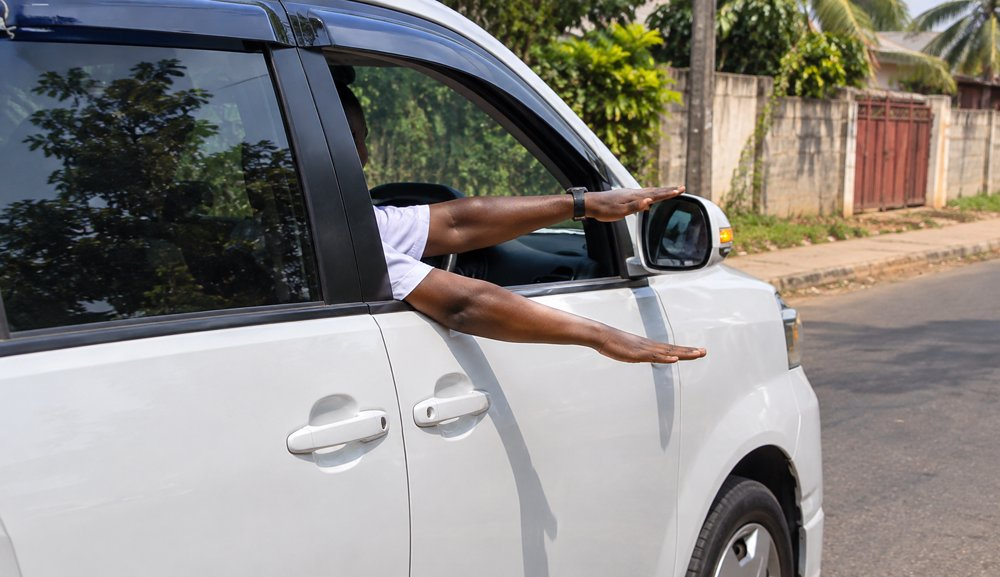
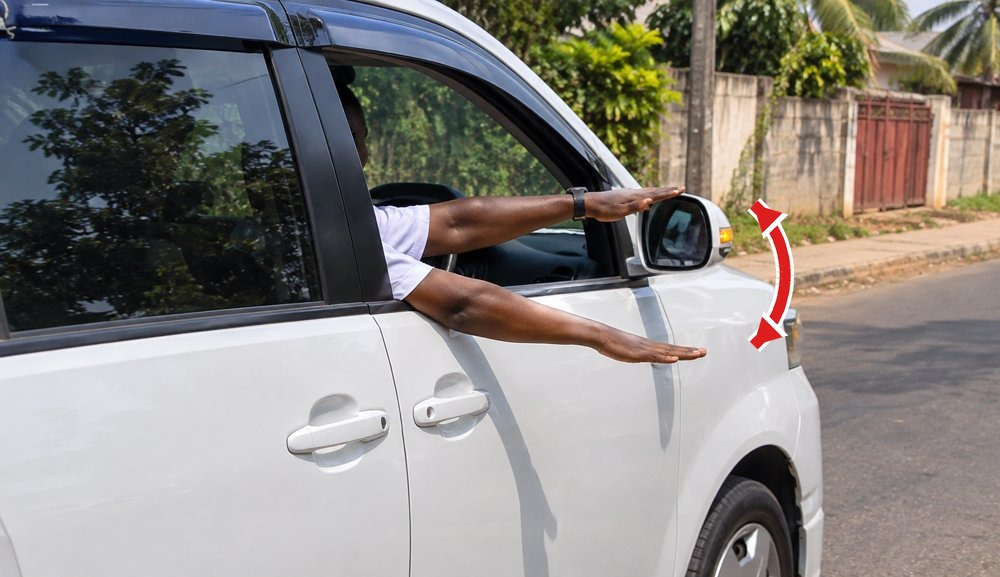
DADOS-052: correcções do Simulado 1 (perguntas 5, 7, 15 e 25)

Changed region(s): [[0.744, 0.3432, 0.806, 0.6239]]

diff --git a/data/exames/exame1.js b/data/exames/exame1.js
@@ -86,7 +86,7 @@ window.EXAMES[1] = [
    "O veículo que estiver mais perto do local onde o cruzamento é possível."
   ],
   "correta": 3,
-  "explicacao": "Recua quem estiver mais perto de um ponto onde o cruzamento seja possível, porque é o que gasta menos manobra para libertar a passagem."
+  "explicacao": "Recua quem estiver mais perto de um ponto onde o cruzamento seja possível, porque é o que gasta menos manobra para libertar a passagem. Numa via de inclinação acentuada, recua o veículo que vai a subir, salvo se a manobra for manifestamente mais fácil para o que desce."
  },
  {
   "numero": 6,
@@ -109,7 +109,7 @@ window.EXAMES[1] = [
   "dificuldade": "difícil",
   "enunciado": "Observe as faixas pintadas na estrada. O que indicam?",
   "imagem": {
-   "descricao": "Estrada com marcas brancas transversais pintadas no pavimento, vista de frente, com um peão na berma",
+   "descricao": "Estrada vista de frente com uma lomba atravessada por faixas amarelas e brancas pintadas no pavimento, com um peão na berma",
    "src": "public/cenas/pergunta-07-lomba-com-faixas.jpg"
   },
   "opcoes": [
@@ -238,7 +238,7 @@ window.EXAMES[1] = [
   "dificuldade": "média",
   "enunciado": "O condutor da imagem estende o braço pela janela e move-o para cima e para baixo, com a palma da mão virada para baixo. O que comunica aos outros utentes?",
   "imagem": {
-   "descricao": "Braço de um condutor estendido pela janela de um carro branco, mão aberta com a palma para baixo, a mover-se para cima e para baixo",
+   "descricao": "Braço de um condutor estendido pela janela de um carro branco, mão aberta com a palma para baixo, a mover-se para cima e para baixo; uma seta vermelha de duplo sentido indica o movimento",
    "src": "public/cenas/pergunta-15-braco-do-condutor.jpg"
   },
   "opcoes": [

diff --git a/data/exames/PENDENTE.md b/data/exames/PENDENTE.md
@@ -408,14 +408,6 @@ Use `exame1.js` como modelo do formato e do nível de adaptação.
 - Pronto quando: existem 25 perguntas originais, cada uma com quatro alternativas, uma resposta correcta, explicação curta e referência normativa específica; não há duplicações com os simulados 1–30 nem com os restantes 31–50; imagens/sinais têm correspondência comprovada; validador automático passa; revisão legal e pedagógica e teste funcional foram realizados.
 - Cuidados: não usar o APK como fonte de perguntas para estes simulados; não copiar perguntas de outros bancos; não inventar artigos, sinais, multas ou procedimentos; confirmar a versão vigente da legislação; registar no mapa qualquer dúvida ou lacuna e não marcar como validada sem prova. Cumprir integralmente o fluxo de avaliação de `REGRAS.md`. Reservar apenas esta tarefa e confirmar a reserva no GitHub antes de começar.
 
-## DADOS-052 — Correcções do Simulado 1 (auditoria GER-005)
-- Estado: EM CURSO — Claude-DADOS052 — 2026-11-12 06:11 UTC+02 — ficheiros: data/exames/exame1.js, public/sinais/N34-via-com-portagem.png, public/cenas/pergunta-15-braco-do-condutor.jpg, docs/auditorias/simulado-1.md — último sinal: 2026-11-12 06:11 UTC+02
-- Pedido: aplicar as correcções propostas em `docs/auditorias/simulado-1.md`, autorizadas pelo dono em 2026-11-11: pergunta 25 (distância da placa), pergunta 15 (seta de movimento na imagem), pergunta 5 (explicação) e confirmação da imagem da pergunta 7.
-- Onde mexer: `data/exames/exame1.js`, as imagens indicadas e o estado das correcções em `docs/auditorias/simulado-1.md`.
-- Pronto quando: a imagem e o texto da pergunta 25 coincidem (300 m, como no original); a imagem da pergunta 15 tem a seta de movimento; a explicação da pergunta 5 inclui a regra da inclinação; `node scripts/validar-exames.js` passa; o relatório regista o que foi aplicado.
-- Cuidados: não mexer nas respostas correctas nem na ordem das perguntas; não alterar `app.js`, `index.html`, `styles.css` ou `config.js`; a escolha da grafia (1990 ou anterior) aguarda confirmação do dono e não faz parte desta tarefa.
-
-
 ## DADOS-053 — Código do sinal da pergunta 14 e descrição da imagem da pergunta 4 (Simulado 1)
 - Estado: LIVRE
 - Pedido: alinhar `data/exames/exame1.js` com o catálogo `docs/referencia-sinais.md` (GER-006), correcção autorizada pelo dono em 2026-11-12. (1) O sinal da pergunta 14 (paragem proibida a veículos que transportam substâncias perigosas) usa o ficheiro `N5-paragem-proibida-substancias-perigosas.png`, mas no `sinais.pdf` esse sinal tem o código N21 (pág. 55); o N5 da pág. 53 é outro sinal («Travessia de peões»). Proposta: renomear o ficheiro para `N21-paragem-proibida-substancias-perigosas.png` e actualizar `imagem.src`. (2) Na pergunta 4, `imagem.descricao` fala de «fila de carros estacionados» (fotografia do APK), mas o ficheiro `G11-…png` mostra só o painel isolado: corrigir a descrição para o que a imagem mostra.

diff --git a/HISTORICO.md b/HISTORICO.md
@@ -24,3 +24,4 @@ Os IDs aqui nunca são reutilizados. O detalhe técnico fica no `git log`.
 - FE-003 — CONCLUÍDA — ChatGPT-FE003 (2026-11-12): auditoria integral dos ficheiros textuais rastreados no repositório, documentada em `docs/auditorias/icone-interface.md`. Não foram encontrados emojis usados na interface; os únicos caracteres gráficos são ✓/✗ em `app.js` e ✓ em `public/assinaturas/planos.js`, classificados como símbolos Unicode, não emojis. `icons/` contém apenas os dois PNG de instalação PWA referenciados pelo manifesto. Não foram necessárias substituições de emojis; nenhum ficheiro reservado foi alterado.
 - GER-006 — CONCLUÍDA — Claude-GER006 (2026-11-12): catálogo de referência dos sinais do ESTRADA em `docs/referencia-sinais.md`. Os 8 sinais do Simulado 1 (A17, D16, E1, E47, G11, H4, N34 e o ficheiro N5) foram conferidos, por leitura visual, com `assets/sinais.pdf` (código, designação como no PDF, página, imagem e pergunta). 6 confirmados (3 com nota) e 2 divergentes: o sinal do ficheiro N5 tem código N21 na pág. 55 e N’5 na pág. 57 do PDF, e o N5 da pág. 53 é outro sinal («Travessia de peões»); N34 mostra 400 m na imagem e 300 m no texto da pergunta 25. Nada foi alterado em imagens, perguntas ou código; as decisões ficam com o dono.
 - FE-004 — CONCLUÍDA — ChatGPT-ASSINATURAS (2026-11-12): área de assinaturas integrada na aplicação (`#/planos`), com encaminhamento dos simulados bloqueados para os planos. Componente redesenhada em `public/assinaturas/planos.js` e `planos.css`: cinco planos lidos de `config.js`, cartões seleccionáveis, botão por plano, benefícios, validade e aviso explícito de pagamentos inactivos. Demonstração em `docs/referencias/assinatura/preview.html`; teste automatizado sem dependências em `scripts/testar-assinaturas.js`. Validação local: sintaxe JavaScript e interacções (5 cartões, preços/benefícios, selecção, CTA e avisos) aprovadas; renderização visual de referência em 1365×1000 e 390×844 inspeccionada. O Chromium headless não arrancou neste ambiente, pelo que não se declara teste num navegador real nem num telemóvel físico. Nenhum preço ou benefício comercial foi alterado.
+- DADOS-052 — CONCLUÍDA — Claude-DADOS052 (2026-11-12): correcções do Simulado 1 aprovadas pelo dono após a auditoria GER-005. Pergunta 25: sinal da portagem redesenhado com 300 m e bordas completas (coincide com o texto). Pergunta 15: seta vermelha de movimento na imagem. Pergunta 5: explicação com a regra da inclinação (Art. 41 n.º 4). Pergunta 7: descrição da imagem corrigida (faixas amarelas e brancas). `node scripts/validar-exames.js` sem problemas. Grafia (1990 ou anterior) por decidir pelo dono; gesto da pergunta 15 por confirmar no regulamento de sinalização.

diff --git a/docs/auditorias/simulado-1.md b/docs/auditorias/simulado-1.md
@@ -2,7 +2,7 @@
 
 - **Tarefa:** GER-005 · **Sessão:** Claude-GER005 · **Data:** 2026-11-11
 - **Âmbito:** as 25 perguntas de `data/exames/exame1.js` (ESTRADA) comparadas com o Exame 1 do aplicativo original (`original/Codigo_e_Sinais_de_Transito_1_1.apk`).
-- **Estado:** relatório de leitura. Nada foi alterado em `exame1.js`. As correcções propostas só avançam com aprovação do dono.
+- **Estado:** auditoria concluída em GER-005. O dono aprovou as correcções em 2026-11-11 e foram aplicadas na tarefa DADOS-052 (secção 7). O resultado das secções 2 a 6 mostra o estado **antes** das correcções.
 
 ## 1. Como foi feito
 
@@ -105,3 +105,18 @@ Legenda: **M** manter · **Me** melhorar · **C** corrigir. Os resumos do origin
 - A correcção das imagens de cena (perguntas 2, 3, 7 e 15) foi avaliada pelo tema, não por direitos de imagem nem origem das fotografias.
 - Perguntas 3 e 11 (condução defensiva) não dependem de um artigo do Código; apoiam-se no original.
 - Esta auditoria não avalia a lógica de pontuação nem a interface.
+
+## 7. Correcções aplicadas (DADOS-052, 2026-11-12)
+
+| Pergunta | O que foi feito |
+|---|---|
+| 25 | O sinal `public/sinais/N34-via-com-portagem.png` foi redesenhado com a distância **300 m**, como no original, e agora coincide com o enunciado, a alternativa D e a explicação. Também foram refeitas as bordas direitas da placa e do painel, que estavam cortadas, e retiradas duas linhas finas de recorte. |
+| 15 | A imagem `public/cenas/pergunta-15-braco-do-condutor.jpg` ganhou uma seta vermelha de duplo sentido entre as duas posições do braço, como no aplicativo original. A descrição da imagem em `exame1.js` refere a seta. |
+| 5 | A explicação passou a incluir a regra da inclinação (Art. 41 n.º 4): numa via de inclinação acentuada recua o veículo que vai a subir, salvo se a manobra for manifestamente mais fácil para o que desce. A pergunta e as alternativas não mudaram. |
+| 7 | A imagem foi confirmada: mostra claramente uma lomba. Foi corrigida a descrição da imagem, que dizia «marcas brancas» quando as faixas são amarelas e brancas. |
+
+**Continua em aberto**
+- **Grafia:** a escolha entre a grafia de 1990 e a anterior aguarda confirmação do dono (secção 5.5). Não foi alterada nenhuma palavra.
+- **Pergunta 15:** o significado do gesto (reduzir a velocidade) continua apoiado só no aplicativo original; falta confirmá-lo no regulamento de sinalização.
+- `node scripts/validar-exames.js` passa sem problemas.
+
